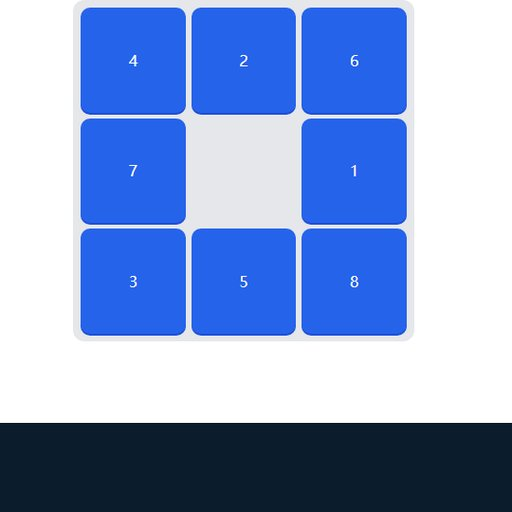
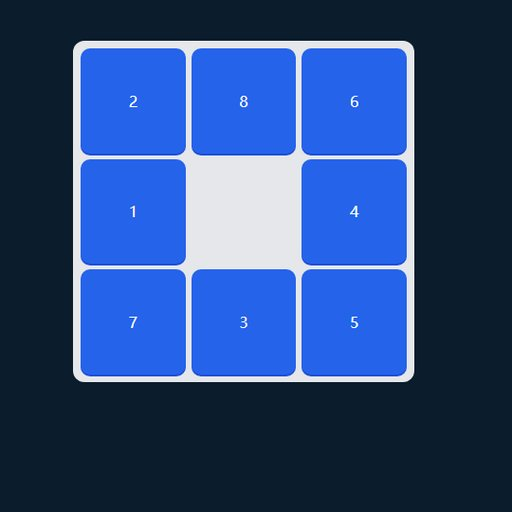
fix: DOM 类游戏缩略图以棋盘为中心
thumb 模式隐藏工具栏并居中棋盘；CLI 对棋盘页下偏裁切；后台只截 gomoku/puzzle/klotski 棋盘元素。

diff --git a/public/js/game/thumb-preview.js b/public/js/game/thumb-preview.js
@@ -12,13 +12,23 @@
     'html.tb-thumb-capture .sidebar, html.tb-thumb-capture .tool-header,',
     'html.tb-thumb-capture .tool-mobile-bar, html.tb-thumb-capture .game-toolbar,',
     'html.tb-thumb-capture .game-diff-row, html.tb-thumb-capture .game-status,',
-    'html.tb-thumb-capture .action-row, html.tb-thumb-capture #topBar { display: none !important; }',
+    'html.tb-thumb-capture .action-row, html.tb-thumb-capture #topBar,',
+    'html.tb-thumb-capture .puzzle-preview-row, html.tb-thumb-capture .puzzle-upload,',
+    'html.tb-thumb-capture .puzzle-audio, html.tb-thumb-capture .puzzle-crop,',
+    'html.tb-thumb-capture .game-hint, html.tb-thumb-capture .game-stats,',
+    'html.tb-thumb-capture .field-label { display: none !important; }',
     'html.tb-thumb-capture .container { max-width: none !important; padding: 0 !important; margin: 0 !important; }',
     'html.tb-thumb-capture .content, html.tb-thumb-capture .tool-card, html.tb-thumb-capture .game-card {',
     '  margin: 0 !important; width: 100% !important; max-width: none !important;',
-    '  box-shadow: none !important; border: none !important; padding: 0 !important; }',
+    '  box-shadow: none !important; border: none !important; padding: 0 !important;',
+    '  display: flex !important; flex-direction: column !important;',
+    '  align-items: center !important; justify-content: center !important;',
+    '  min-height: 100vh !important; background: #0b1c2c !important; }',
     'html.tb-thumb-capture #wrap { max-width: none !important; margin: 0 auto !important; }',
-    'html.tb-thumb-capture .game-board-wrap { margin: 0 auto !important; }'
+    'html.tb-thumb-capture .game-board-wrap {',
+    '  margin: 0 auto !important; width: min(92vw, 520px) !important; max-width: 520px !important; }',
+    'html.tb-thumb-capture .gomoku-board, html.tb-thumb-capture .puzzle-board,',
+    'html.tb-thumb-capture .klotski-board { margin: 0 auto !important; }'
   ].join('\n');
   document.head.appendChild(style);
 

diff --git a/public/js/admin/game-thumbs.js b/public/js/admin/game-thumbs.js
@@ -235,16 +235,30 @@
     });
   }
 
+  function boardCaptureTarget(doc) {
+    return doc.querySelector('.gomoku-board, .puzzle-board, .klotski-board')
+      || doc.querySelector('.game-board-wrap')
+      || doc.querySelector('#wrap')
+      || doc.body;
+  }
+
+  function boardCaptureBg(el) {
+    if (!el) return '#111827';
+    if (el.classList.contains('klotski-board')) return '#e2e8f0';
+    if (el.classList.contains('gomoku-board')) return '#c8a86a';
+    if (el.classList.contains('puzzle-board')) return '#1a1a2e';
+    return '#0b1c2c';
+  }
+
   function captureFromDoc(doc) {
     var canvas = doc.querySelector('canvas');
     if (canvas) {
       return Promise.resolve(cropCover(trimCanvasSource(canvas), THUMB_W, THUMB_H));
     }
-    var target = doc.querySelector('.game-board-wrap, .klotski-board, .puzzle-board, #board, #wrap');
-    if (!target) target = doc.body;
+    var target = boardCaptureTarget(doc);
     return loadHtml2Canvas().then(function (html2canvas) {
       return html2canvas(target, {
-        backgroundColor: target.classList && target.classList.contains('klotski-board') ? '#e2e8f0' : '#111827',
+        backgroundColor: boardCaptureBg(target),
         scale: Math.min(2, window.devicePixelRatio || 1),
         logging: false,
         useCORS: true

diff --git a/public/html/game/puzzle.html b/public/html/game/puzzle.html
@@ -73,6 +73,12 @@
   <script src="../../js/base.js?v=minimax1"></script>
   <script src="../../js/game/game-audio.js?v=minimax1"></script>
   <script src="../../js/game/puzzle.js?v=minimax1"></script>
-<script src="../../js/game/thumb-preview.js"></script>
+  <script>
+  window.__tbThumbAutoStart = function () {
+    var btn = document.getElementById('restart-btn');
+    if (btn) btn.click();
+  };
+  </script>
+  <script src="../../js/game/thumb-preview.js"></script>
 </body>
 </html>

diff --git a/public/js/games-hub.js b/public/js/games-hub.js
@@ -33,7 +33,7 @@
         var url = item.url || '';
         var m = url.match(/html\/game\/([^/?]+)\.html/i);
         if (!m) return '';
-        return 'assets/game/thumbs/' + m[1] + '.jpg?v=8';
+        return 'assets/game/thumbs/' + m[1] + '.jpg?v=9';
     }
 
     function bindSearch(toolbarEl) {

diff --git a/public/html/admin/private/ladder-update.html b/public/html/admin/private/ladder-update.html
@@ -96,6 +96,6 @@
   </main>
 
   <script src="../../../js/admin/ladder-update.js?v=gameThumbs1"></script>
-  <script src="../../../js/admin/game-thumbs.js?v=gameThumbs6"></script>
+  <script src="../../../js/admin/game-thumbs.js?v=gameThumbs7"></script>
 </body>
 </html>

diff --git a/deploy/capture-game-thumbs.py b/deploy/capture-game-thumbs.py
@@ -83,7 +83,7 @@ def capture_png(browser: Path, url: str, dest: Path, budget_ms: int) -> None:
         url,
     ]
     subprocess.run(cmd, check=True, stdout=subprocess.DEVNULL, stderr=subprocess.DEVNULL)
-    if not tmp.is_file() or tmp.stat().st_size < 5000:
+    if not tmp.is_file() or tmp.stat().st_size < 3500:
         raise RuntimeError(f"Screenshot too small or missing: {tmp}")
 
 
@@ -116,16 +116,27 @@ def content_bbox(im: Image.Image, threshold: int = 22) -> tuple[int, int, int, i
     )
 
 
-def to_thumb(src_png: Path, dest_jpg: Path) -> None:
+DOM_BOARD_SLUGS = frozenset({"gomoku", "puzzle", "klotski"})
+
+
+def square_crop(im: Image.Image, slug: str | None = None) -> Image.Image:
+    box = content_bbox(im)
+    im = im.crop(box)
+    w, h = im.size
+    if slug in DOM_BOARD_SLUGS and h > int(w * 1.08):
+        top = int(h * 0.24)
+        im = im.crop((0, top, w, h))
+        w, h = im.size
+    side = min(w, h)
+    left = max(0, (w - side) // 2)
+    top = max(0, (h - side) // 2)
+    return im.crop((left, top, left + side, top + side))
+
+
+def to_thumb(src_png: Path, dest_jpg: Path, slug: str | None = None) -> None:
     with Image.open(src_png) as im:
         im = im.convert("RGB")
-        box = content_bbox(im)
-        im = im.crop(box)
-        w, h = im.size
-        side = min(w, h)
-        left = (w - side) // 2
-        top = (h - side) // 2
-        im = im.crop((left, top, left + side, top + side))
+        im = square_crop(im, slug)
         im = im.resize((THUMB_W, THUMB_H), Image.Resampling.LANCZOS)
         dest_jpg.parent.mkdir(parents=True, exist_ok=True)
         im.save(dest_jpg, "JPEG", quality=JPEG_QUALITY, optimize=True)
@@ -196,7 +207,7 @@ def main() -> int:
             try:
                 print(f"capture {slug} ({mode}) …")
                 capture_png(browser, url, out, budget)
-                to_thumb(out.with_suffix(".png"), out)
+                to_thumb(out.with_suffix(".png"), out, slug)
                 print(f"  -> {out.relative_to(ROOT)} ({out.stat().st_size} bytes)")
                 ok += 1
             except Exception as exc:
